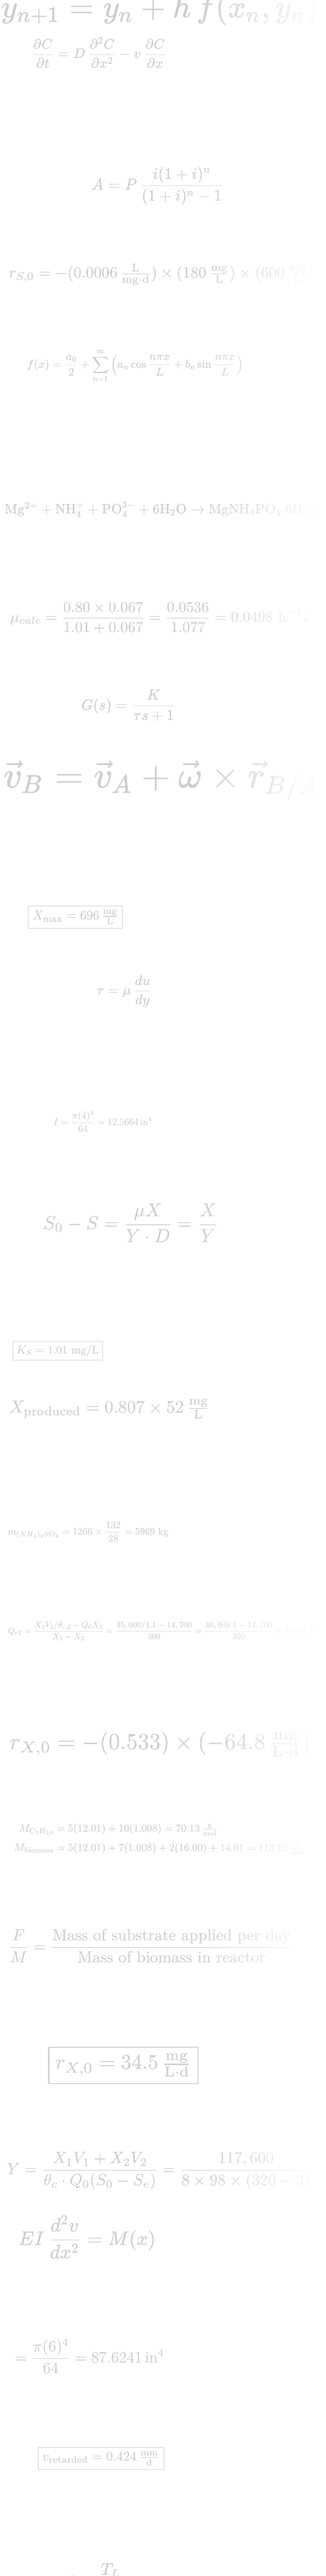
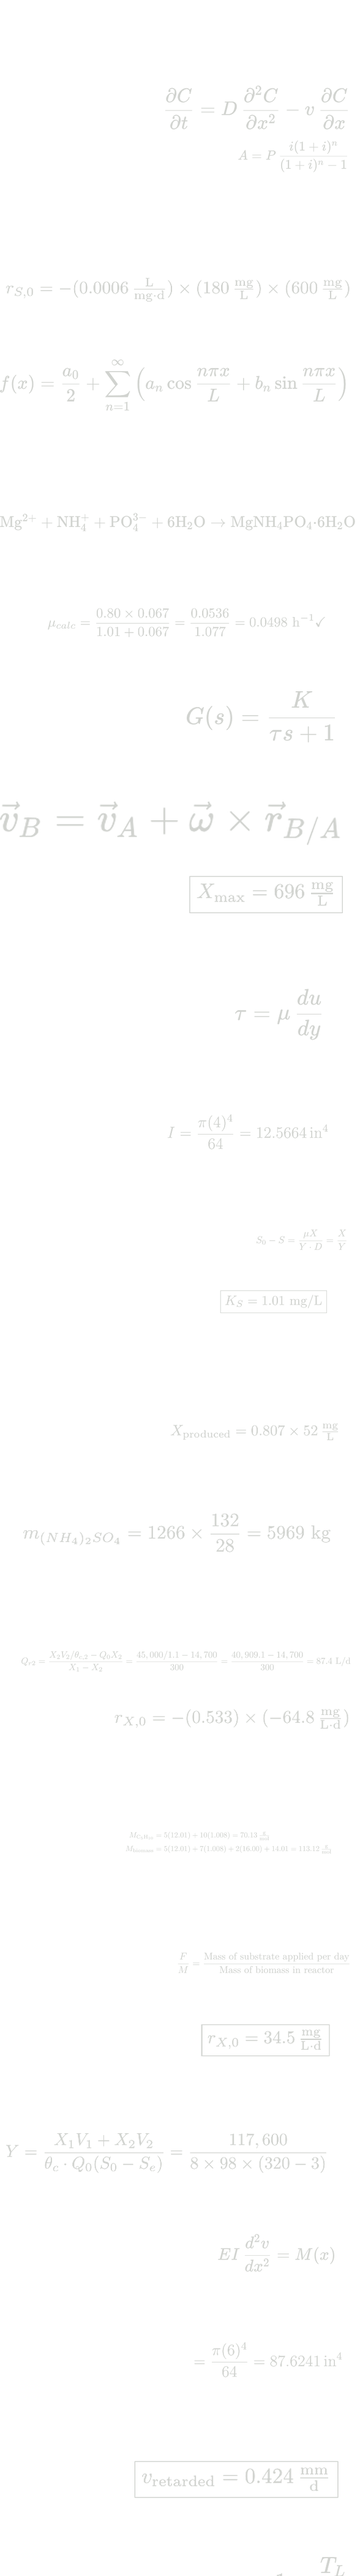
Margin-width equation columns; 5 s carousels with pause and manual stop; fix arrows

diff --git a/style.css b/style.css
@@ -1018,8 +1018,8 @@ main > section.section:nth-of-type(odd) .split-head .sc { color: var(--slate); }
    ============================================================ */
 .slides { width: 100%; }
 .slides-stage { position: relative; overflow: hidden; border-radius: 10px; background: #fff; width: 100%; }
-.slide { position: absolute; inset: 0; margin: 0; opacity: 0; visibility: hidden; transition: opacity .6s ease, visibility 0s linear .6s; }
-.slide.is-active { opacity: 1; visibility: visible; transition: opacity .6s ease; }
+.slide { position: absolute; inset: 0; margin: 0; opacity: 0; visibility: hidden; transition: opacity .3s ease, visibility 0s linear .3s; }
+.slide.is-active { opacity: 1; visibility: visible; transition: opacity .3s ease; }
 .slide button { all: unset; display: block; width: 100%; height: 100%; cursor: zoom-in; }
 .slide button:focus-visible { outline: 3px solid var(--accent); outline-offset: -3px; }
 .slide img { width: 100%; height: 100%; object-fit: cover; }
@@ -1079,12 +1079,15 @@ main > section.section:nth-of-type(even) { background-color: var(--field); }
 main > section.section { background-image: var(--gridL); background-size: 22px 22px; background-repeat: repeat; background-position: 0 0; }
 main > section.section:nth-of-type(odd) { background-image: var(--gridD); background-size: 22px 22px; background-repeat: repeat; background-position: 0 0; }
 main { position: relative; }
-main::before { content: ""; position: absolute; inset: 0; z-index: 1; pointer-events: none;
-  background-image: url("images/eq/L1.png"), url("images/eq/L2.png"), url("images/eq/L3.png"), url("images/eq/L4.png"), url("images/eq/L5.png"), url("images/eq/R1.png"), url("images/eq/R2.png"), url("images/eq/R3.png"), url("images/eq/R4.png"), url("images/eq/R5.png");
-  background-size: 380px 3000px; background-repeat: no-repeat;
-  background-position: left var(--eq-x) top 60px, left var(--eq-x) top 3060px, left var(--eq-x) top 6060px, left var(--eq-x) top 9060px, left var(--eq-x) top 12060px, right var(--eq-xr) top 180px, right var(--eq-xr) top 3180px, right var(--eq-xr) top 6180px, right var(--eq-xr) top 9180px, right var(--eq-xr) top 12180px; }
+main::before, main::after { content: ""; position: absolute; top: 0; bottom: 0; z-index: 1; pointer-events: none;
+  /* each column ends where the text column begins */
+  width: calc((100% - var(--page)) / 2 + var(--gut) - 18px);
+  background-size: 420px 3000px; background-repeat: no-repeat; }
+main::before { left: 0; background-image: url("images/eq/L1.png"), url("images/eq/L2.png"), url("images/eq/L3.png"), url("images/eq/L4.png"), url("images/eq/L5.png"); background-position: right top 60px, right top 3060px, right top 6060px, right top 9060px, right top 12060px; }
+main::after { right: 0; background-image: url("images/eq/R1.png"), url("images/eq/R2.png"), url("images/eq/R3.png"), url("images/eq/R4.png"), url("images/eq/R5.png"); background-position: left top 180px, left top 3180px, left top 6180px, left top 9180px, left top 12180px; }
 main > section.section > .page { position: relative; z-index: 2; }
-@media (max-width: 1100px) { main::before { display: none; } }
+@media (max-width: 1339px) { main::before, main::after { display: none; } }
+
 .slide img { object-position: 50% 10%; }
 
 /* video slides */
@@ -1092,3 +1095,14 @@ main > section.section > .page { position: relative; z-index: 2; }
 .cproj.featured { border-left-color: var(--accent); }
 .cproj .honour { margin: 0 0 12px; }
 .cproj-media .slides-stage[style*="3/4"] { max-height: 640px; margin: 0 auto; }
+
+/* the card/product media button resets must not reach the slideshow arrows */
+.slides .slides-arrow {
+  all: unset; cursor: pointer; position: absolute; top: 50%; transform: translateY(-50%); z-index: 2;
+  width: 42px; height: 42px; border-radius: 50%; display: grid; place-items: center;
+  background: rgba(18,22,17,.72); color: #fff; transition: background .2s;
+}
+.slides .slides-arrow svg { width: 10px; height: 16px; }
+.slides .slides-arrow:hover { background: var(--accent); }
+.slides .slides-arrow:focus-visible { outline: 2px solid #fff; outline-offset: 2px; }
+.slides .slides-arrow.prev { left: 12px; } .slides .slides-arrow.next { right: 12px; }

diff --git a/slides.js b/slides.js
@@ -1,13 +1,17 @@
 /* Slideshows: <div class="slides" data-autoplay> with .slide children,
-   built-in arrows, a thumbnail strip, swipe, keyboard, and slow autoplay
-   (paused on hover/focus, off for reduced motion). Clicking a slide still
+   built-in arrows, a thumbnail strip, swipe and keyboard. Autoplay holds each
+   image 5 s, pauses on hover or focus, stops for good after any click, swipe or
+   key press, and is off on touch screens and for reduced motion. Clicking a slide still
    opens the photo viewer from gallery.js. */
 (function () {
   const reduce = window.matchMedia("(prefers-reduced-motion: reduce)").matches;
+  // no auto-rotation on phones and other touch-first screens
+  const mobile = window.matchMedia("(hover: none), (max-width: 760px)");
+  const HOLD = 5000;
   document.querySelectorAll(".slides").forEach((root) => {
     const slides = Array.from(root.querySelectorAll(".slide"));
     if (slides.length < 2) { root.classList.add("single"); return; }
-    let i = 0, timer = 0;
+    let i = 0, timer = 0, manual = false, hovered = false, focused = false;
 
     const stage = root.querySelector(".slides-stage");
     const prev = document.createElement("button");
@@ -32,7 +36,7 @@
       t.setAttribute("aria-label", "Show image " + (k + 1) + ": " + (img.alt || ""));
       t.innerHTML = '<img src="' + img.getAttribute("src") + '" alt="" loading="lazy">';
       if (img.classList.contains("contain")) t.classList.add("contain");
-      t.addEventListener("click", () => { go(k); stop(); });
+      t.addEventListener("click", () => { go(k); halt(); });
       strip.append(t);
     });
     root.append(strip);
@@ -54,26 +58,30 @@
       counter.textContent = (i + 1) + " / " + slides.length;
     }
     function play() {
-      if (reduce || !root.hasAttribute("data-autoplay") || timer) return;
-      timer = setInterval(() => go(i + 1), 5200);
+      if (reduce || mobile.matches || manual || hovered || focused || !root.hasAttribute("data-autoplay") || timer) return;
+      timer = setInterval(() => go(i + 1), HOLD);
     }
     function stop() { clearInterval(timer); timer = 0; }
+    // a click, tap, swipe or key press hands control to the visitor for good
+    function halt() { manual = true; stop(); }
 
-    prev.addEventListener("click", () => { go(i - 1); stop(); });
-    next.addEventListener("click", () => { go(i + 1); stop(); });
-    root.addEventListener("mouseenter", stop);
-    root.addEventListener("mouseleave", play);
-    root.addEventListener("focusin", stop);
+    prev.addEventListener("click", () => { go(i - 1); halt(); });
+    next.addEventListener("click", () => { go(i + 1); halt(); });
+    stage.addEventListener("click", halt);
+    root.addEventListener("mouseenter", () => { hovered = true; stop(); });
+    root.addEventListener("mouseleave", () => { hovered = false; play(); });
+    root.addEventListener("focusin", () => { focused = true; stop(); });
+    root.addEventListener("focusout", (e) => { if (!root.contains(e.relatedTarget)) { focused = false; play(); } });
     root.addEventListener("keydown", (e) => {
-      if (e.key === "ArrowLeft") { go(i - 1); stop(); }
-      if (e.key === "ArrowRight") { go(i + 1); stop(); }
+      if (e.key === "ArrowLeft") { go(i - 1); halt(); }
+      if (e.key === "ArrowRight") { go(i + 1); halt(); }
     });
     let x0 = null;
     stage.addEventListener("touchstart", (e) => { x0 = e.touches[0].clientX; stop(); }, { passive: true });
     stage.addEventListener("touchend", (e) => {
       if (x0 === null) return;
       const dx = e.changedTouches[0].clientX - x0;
-      if (Math.abs(dx) > 40) go(dx < 0 ? i + 1 : i - 1);
+      if (Math.abs(dx) > 40) { go(dx < 0 ? i + 1 : i - 1); halt(); } else play();
       x0 = null;
     });
     new IntersectionObserver((es) => (es[0].isIntersecting ? play() : stop())).observe(root);
